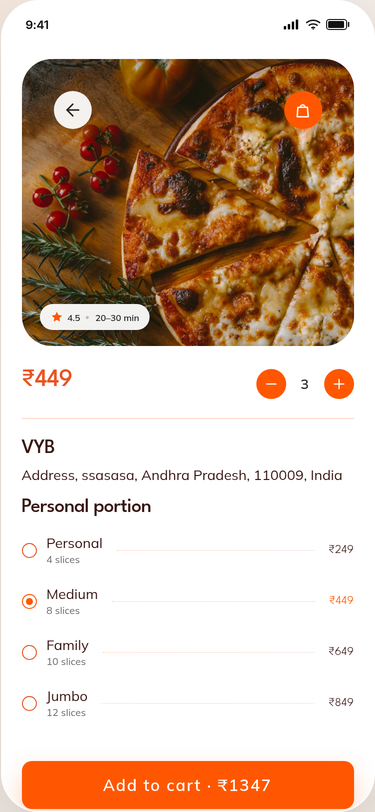
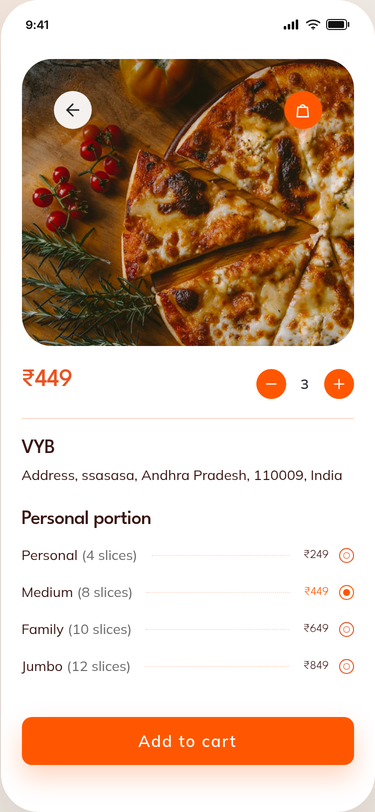
feat: refine frontend layout against design reference

Changed region(s): [[0.0293, 0.6158, 0.968, 1.0], [0.792, 0.6466, 0.9387, 0.8313], [0.088, 0.3695, 0.4107, 0.431]]

diff --git a/reactjs/src/pages/RestaurantPage.jsx b/reactjs/src/pages/RestaurantPage.jsx
@@ -1,6 +1,6 @@
 import { useState } from 'react';
 import { useNavigate, useParams } from 'react-router-dom';
-import { ArrowLeft, Bag, Minus, Plus, Star } from '../components/Icons.jsx';
+import { ArrowLeft, Bag, Minus, Plus } from '../components/Icons.jsx';
 import { SmartImage } from '../components/SmartImage.jsx';
 import { useCart } from '../lib/cart.jsx';
 import { foodImages, formatAddress, restaurantImage } from '../lib/data.js';
@@ -56,7 +56,6 @@ export function RestaurantPage() {
   }
 
   const heroImage = foodImages[index % foodImages.length];
-  const total = selectedPortion.price * quantity;
 
   const addToCart = () => {
     addItem({
@@ -95,9 +94,6 @@ export function RestaurantPage() {
           <Bag size={19} />
           {count > 0 && <span className="cart-count">{count}</span>}
         </button>
-        <span className="detail-rating">
-          <Star size={14} /> 4.5 <i /> 20–30 min
-        </span>
       </div>
 
       <div className="detail-content">
@@ -142,13 +138,12 @@ export function RestaurantPage() {
                 checked={portionId === portion.id}
                 onChange={() => setPortionId(portion.id)}
               />
-              <span className="portion-radio" aria-hidden="true" />
               <span className="portion-name">
-                {portion.label}
-                <small>{portion.detail}</small>
+                {portion.label} <small>({portion.detail})</small>
               </span>
               <span className="portion-dots" aria-hidden="true" />
               <span className="portion-price">₹{portion.price}</span>
+              <span className="portion-radio" aria-hidden="true" />
             </label>
           ))}
         </div>
@@ -156,7 +151,7 @@ export function RestaurantPage() {
 
       <div className="detail-footer">
         <button type="button" className="primary-button" onClick={addToCart}>
-          Add to cart · ₹{total}
+          Add to cart
         </button>
       </div>
     </main>

diff --git a/reactjs/src/styles.css b/reactjs/src/styles.css
@@ -1817,9 +1817,14 @@ input:focus-visible {
 .keypad {
   gap: 8px;
   margin: 22px -22px 0;
-  padding: 10px 10px 18px;
+  padding: 10px 10px 2px;
   border-radius: 0;
   background: #e4e7eb;
+}
+
+.keypad .key:nth-last-child(2),
+.keypad .key:last-child {
+  margin-top: 16px;
 }
 
 .key {
@@ -1876,7 +1881,7 @@ input:focus-visible {
   margin-top: 16px;
   color: var(--ink);
   font-family: var(--font);
-  font-size: 12px;
+  font-size: 13px;
 }
 
 .resend-timer {
@@ -1939,7 +1944,7 @@ input:focus-visible {
 .search-field input {
   color: var(--ink);
   font-family: var(--font);
-  font-size: 17px;
+  font-size: 18px;
 }
 
 .search-field input::placeholder {
@@ -2238,6 +2243,10 @@ input:focus-visible {
   background: #ffd8c7;
 }
 
+.portion-heading {
+  margin-top: 24px;
+}
+
 .portion-heading h3 {
   color: #391713;
   font-family: var(--font-heading);
@@ -2254,15 +2263,21 @@ input:focus-visible {
 }
 
 .portion-name {
+  display: flex;
+  flex-direction: row;
+  align-items: baseline;
+  gap: 4px;
   color: #391713;
   font-family: var(--font);
   font-size: 14px;
   font-weight: 400;
+  white-space: nowrap;
 }
 
 .portion-name small {
   color: #696969;
-  font-size: 10px;
+  font-size: 14px;
+  font-weight: 400;
 }
 
 .portion-name em {
@@ -2283,9 +2298,22 @@ input:focus-visible {
 }
 
 .portion-radio {
+  position: relative;
   width: 15px;
   height: 15px;
   border-color: var(--orange-deep);
+}
+
+.portion-radio::before {
+  position: absolute;
+  inset: 3px;
+  border: 1px solid rgba(233, 83, 34, 0.6);
+  border-radius: 50%;
+  content: '';
+}
+
+.portion-row.selected .portion-radio::before {
+  border-color: transparent;
 }
 
 .detail-footer {

diff --git a/reactjs/src/pages/VerifyPage.jsx b/reactjs/src/pages/VerifyPage.jsx
@@ -176,7 +176,7 @@ export function VerifyPage() {
                 aria-label={`Digit ${index + 1}`}
                 autoFocus={index === 0}
               />
-              {index === 2 && <span className="otp-separator">•</span>}
+              {index === 2 && <span className="otp-separator">-</span>}
             </div>
           ))}
         </div>
@@ -200,7 +200,7 @@ export function VerifyPage() {
         </button>
 
         <div className="auth-bottom">
-          <button className="primary-button" type="submit" disabled={loading || otp.length !== 6}>
+          <button className="primary-button" type="submit" disabled={loading}>
             {loading ? 'Verifying…' : 'Continue'}
           </button>
         </div>

diff --git a/reactjs/README.md b/reactjs/README.md
@@ -19,13 +19,17 @@ The login and OTP screens also include one-tap demo buttons.
 
 ## Preview
 
-| Login | Home |
+| Login | OTP verification |
 |---|---|
-| ![Login screen](screenshots/login.png) | ![Home screen](screenshots/home.png) |
+| ![Login screen](screenshots/login.png) | ![OTP verification](screenshots/verify.png) |
 
-| Restaurant detail | Cart |
+| Home | Restaurant detail |
 |---|---|
-| ![Restaurant detail](screenshots/detail.png) | ![Cart](screenshots/cart.png) |
+| ![Home screen](screenshots/home.png) | ![Restaurant detail](screenshots/detail.png) |
+
+| Cart | |
+|---|---|
+| ![Cart](screenshots/cart.png) | |
 
 ## Screens
 
